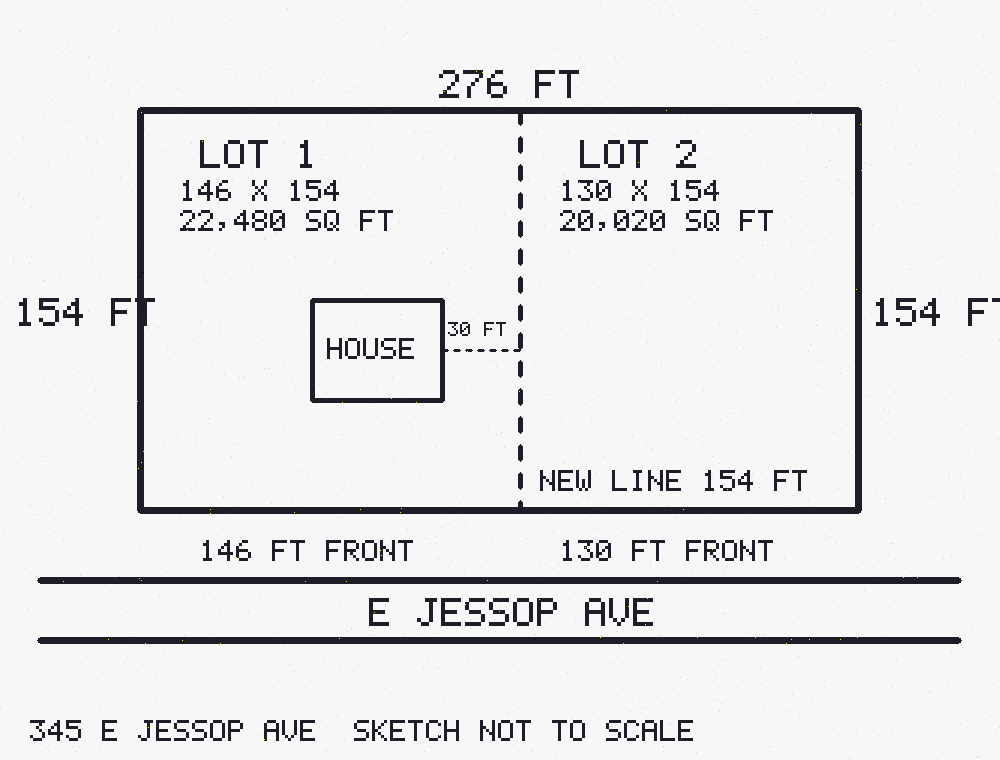
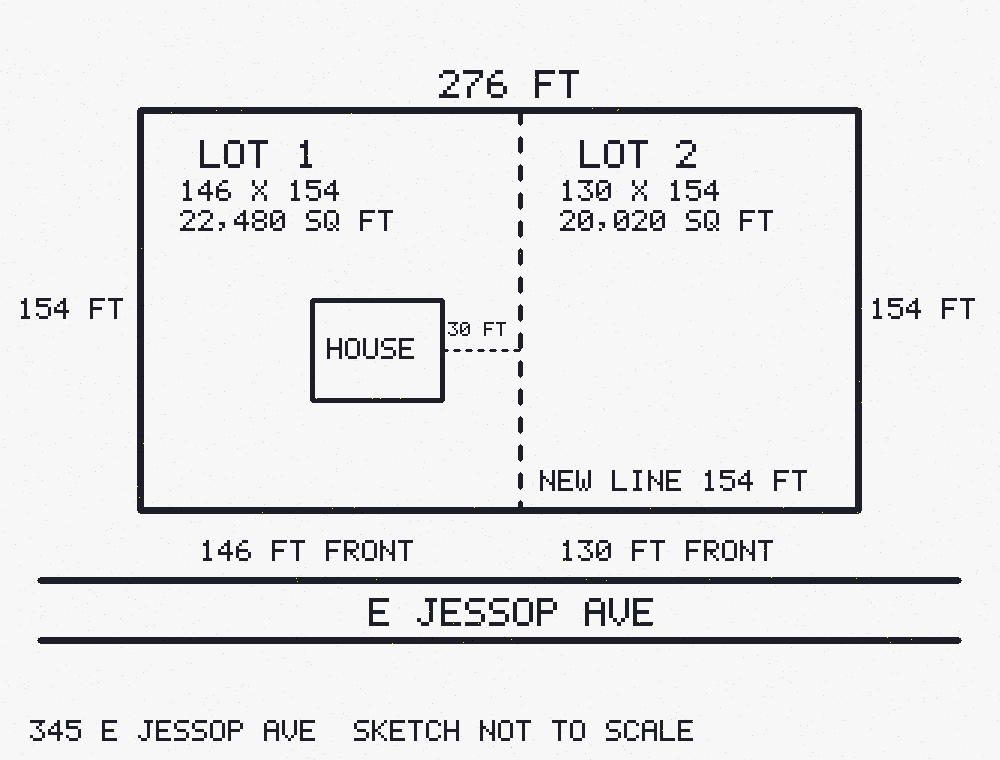
Call Meta directly: stop steering calls to chosen addresses and retire the relay; tidy the demo sketch

Changed region(s): [[0.868, 0.3934, 1.0, 0.4237], [0.031, 0.3934, 0.155, 0.4237]]

diff --git a/lib/meta.js b/lib/meta.js
@@ -96,10 +96,9 @@ function createClient(options = {}) {
   const timeoutMs = options.timeoutMs || 180000;
   const retryDelayMs = options.retryDelayMs === undefined ? 1000 : options.retryDelayMs;
   const backoff = (attempt) => retryDelayMs * 2 ** (attempt - 1) + Math.random() * (retryDelayMs / 2);
-  // After a "model not found", later attempts go out on a fresh connection to a rotating Meta edge
-  // address. Meta's servers are not all consistent about which models a key may use (seen from
-  // cloud hosts 2026-10-28), and a kept-alive connection would keep hitting the same bad one.
-  const pinned = options.pinnedPost || (options.fetchImpl || VIA_RELAY ? null : pinnedPost);
+  // Production calls always go through normal routing. A test can pass pinnedPost to exercise the retry path;
+  // steering live calls to chosen Meta addresses was removed 2026-11-03 (Meta's terms bar evading access controls).
+  const pinned = options.pinnedPost || null;
   let edgePool = [...PROBE_IPS];
   let edgeIndex = 0;
   let edgeRefreshed = 0;
@@ -429,20 +428,6 @@ function createClient(options = {}) {
       out.dns_aaaa = await dns.resolve6("api.meta.ai").catch((e) => "err: " + e.code);
     } catch (e) {
       out.dns_error = e.message;
-    }
-    // Same chat call, steered to each known-good edge address, three times each.
-    out.pinned = {};
-    for (const ip of VIA_RELAY ? [] : PROBE_IPS) {
-      const codes = [];
-      for (let i = 0; i < 3; i++) {
-        try {
-          const r = await pinnedPost(API_URL, ip, { model: defaultModel, messages: [{ role: "user", content: "Say ok." }], max_completion_tokens: 5 }, { Authorization: "Bearer " + apiKey, ...relayHeaders });
-          codes.push(r.status);
-        } catch (e) {
-          codes.push("err:" + e.message.slice(0, 40));
-        }
-      }
-      out.pinned[ip] = codes;
     }
     return out;
   }

diff --git a/public/privacy.html b/public/privacy.html
@@ -35,7 +35,7 @@
   <ul>
     <li>Everything you submit is <strong>visible to anyone</strong> who opens the staff workspace, because that workspace is open so judges can try it. Your visit code is not shown there.</li>
     <li>Your text, drawings and voice are sent to Meta's Model API to produce the replies, using Meta's Standard Services. Meta's terms say content sent to those services is not used to train its models.</li>
-    <li>The demo is hosted on Render. Calls to Meta may pass through a Cloudflare service that forwards them.</li>
+    <li>The demo is hosted on Render.</li>
     <li>We do not sell your information or use it for advertising or marketing.</li>
     <li>Visits stay until the demo data is cleared. The demo is planned to shut down after the hackathon ends in November 2026, and its data will be deleted then.</li>
   </ul>

diff --git a/scripts/make-test-sketches.js b/scripts/make-test-sketches.js
@@ -198,8 +198,8 @@ function jessopSketch() {
   const X = 140, Y = 110, W = 718, H = 400, F = W / 276;
   r.rect(X, Y, W, H, { t: 3 });
   r.text(X + W / 2 - 60, Y - 40, "276 FT", { scale: 4 });
-  r.text(X - 125, Y + H / 2 - 12, "154 FT", { scale: 4 });
-  r.text(X + W + 14, Y + H / 2 - 12, "154 FT", { scale: 4 });
+  r.text(X - 122, Y + H / 2 - 12, "154 FT", { scale: 3 });
+  r.text(X + W + 12, Y + H / 2 - 12, "154 FT", { scale: 3 });
   const S = X + Math.round(146 * F);
   r.line(S, Y, S, Y + H, { t: 2, dash: 14 });
   r.text(S + 20, Y + H - 40, "NEW LINE 154 FT", { scale: 3 });

diff --git a/AGENTS.md b/AGENTS.md
@@ -10,7 +10,7 @@ The private planning notebook (rules digest, plan, review log, submission drafts
 - Meta Model API (`lib/meta.js` is the only caller): `muse-spark-1.3` for every desk and staff step (structured output, tool calling, image input); `sam-3.1` for drawing outlines; `muse-voice-transcribe-1.0` for the microphone; `muse-wonder-1.0` for the staff second read; `muse-image-1.0` generated the characters and the office background (once, via scripts).
 - Front end: plain HTML/CSS/JS in `public/`, rendered with `textContent` only (never innerHTML). The page's Content-Security-Policy blocks inline `style` attributes; set styles through `element.style`.
 - Storage: one SQLite file (`data/runtime/citycenter.sqlite`, git-ignored; `/var/data` on Render).
-- Hosting: Render web service, with Meta calls routed through a Cloudflare Worker relay (see Deploys).
+- Hosting: Render web service, calling Meta directly (see Deploys).
 
 ## How to run it locally
 1. Copy `.env.example` to `.env`; set `MODEL_API_KEY`, `STAFF_PASSCODE`, `COOKIE_SECRET`.
@@ -26,7 +26,7 @@ The private planning notebook (rules digest, plan, review log, submission drafts
 - `lib/signature.js`: electronic signature helpers (typed SVG, PNG check, document hash). `lib/security.js`: cookies, tokens, scrypt passwords, rate limits, headers. `lib/store.js`: SQLite schema and migrations (new columns are added on open).
 - `data/towns/trust-city.json` (cached data in `data/towns/trust-city/`): everything town-specific (name, `sourceName`, reference prefix `TC`): departments and characters, process tiers, application types, wording, office letterhead, GIS and code URLs. `data/demo.json`: the 13 worked examples. `public/characters/`, `public/office/`: generated art.
 - `public/resident.js`, `public/index.html`: the office scene (history, character, TV with remote). `public/staff.js`, `public/staff.html`: the reviewer workspace. `public/form.js`: the application form, shared by both. `public/trust-gap.html` (with `trust-gap.js`, `trust-gap.css`; served at `/trust-gap`): John's Local Government Trust Gap Model, an illustrative interactive chart linked from the top bar; the chart is drawn on a plain canvas because the security policy allows no outside scripts.
-- `relay/`: the Cloudflare Worker that forwards Meta calls, with dashboard setup steps.
+- `relay/`: an old Cloudflare Worker forwarder, no longer used (see Deploys).
 - `scripts/`: `deploy.js` (Render deploy), `render-env.js` (push settings from `.env.render-vars.local`), `probe-relay.js`, `probe-region.js`, `tunnel.js` (laptop fallback), `make-characters.js`, `make-office.js`, `seed.js`, `seed-remote.js`, `journey.js`, `try.js`.
 - `public/privacy.html`: privacy policy and end-user terms (Meta's terms require both, plus 18+). `data/towns/trust-city/NOTICE.md`: data credits, license and disclaimer (UGRC's CC BY 4.0 terms require them; the MIT license does not cover `data/towns/`).
 - `test/unit/`: offline tests (34). `test/live/`: scenario tests against the real API. `test/fixtures/scenarios.json`: 22 cases.
@@ -35,7 +35,7 @@ The private planning notebook (rules digest, plan, review log, submission drafts
 ## Deploys
 - Render web service `citycenter` (Starter, Oregon, 1 GB disk at `/var/data`). Live: https://citycenter-puh5.onrender.com (staff at `/staff`). Health: `/api/health`. Staff-only diagnostic: `/api/staff/diag`.
 - Render's auto-deploy on push does not fire for this service. After pushing, run `npm run deploy` (uses `RENDER_API_KEY` from the git-ignored `.env.render.local`).
-- Meta's API refuses most calls from Render's own network, so the app sends every Meta call through a Cloudflare Worker in John's Cloudflare account (`citycenter-relay`; code in `relay/worker.js`; the worker checks a shared secret). Render's environment holds `META_API_BASE` (the worker address) and `META_RELAY_SECRET`. To change Render settings, edit the git-ignored `.env.render-vars.local` and run `node scripts/render-env.js --file .env.render-vars.local` (it redeploys). `node scripts/probe-relay.js <worker address>` checks the relay from the laptop.
+- The live site calls Meta directly. From 2026-10-28 to 2026-11-03 it went through a Cloudflare Worker (`relay/`) because Meta's API refused most calls from Render's network. Direct calls worked 16 of 16 times on 2026-11-03, so the relay was turned off. Do not turn it back on without asking Meta first: its terms bar evading access controls. To change Render settings, edit the git-ignored `.env.render-vars.local` and run `node scripts/render-env.js --file .env.render-vars.local` (it redeploys).
 - Secrets live only in `.env*` files (git-ignored) and in Render's and Cloudflare's dashboards.
 
 ## Project rules

diff --git a/README.md b/README.md
@@ -88,7 +88,7 @@ Refresh the cached public data: `npm run fetch:code` and `npm run fetch:gis`.
 - `public/` the counter and the workspace (plain HTML, CSS and JS, rendered with `textContent` only).
 - `data/towns/trust-city.json` the town config; `data/towns/trust-city/` the cached code and map layers; `data/demo.json` the worked examples.
 - `test/fixtures/scenarios.json` the 22 scenario cases; `docs/PROGRESS.md` the build log and the list of placeholder decisions.
-- `relay/` a tiny forwarding script (Cloudflare Worker) the hosted copy uses to reach Meta's API, because Meta's service refused most calls from the host's own network. It carries the same calls unchanged; see `relay/README.md`.
+- `relay/` a forwarding script from early in the event, when the hosted copy could not reach Meta's API reliably. It is no longer used: the live site calls Meta directly.
 
 ## Live
 
